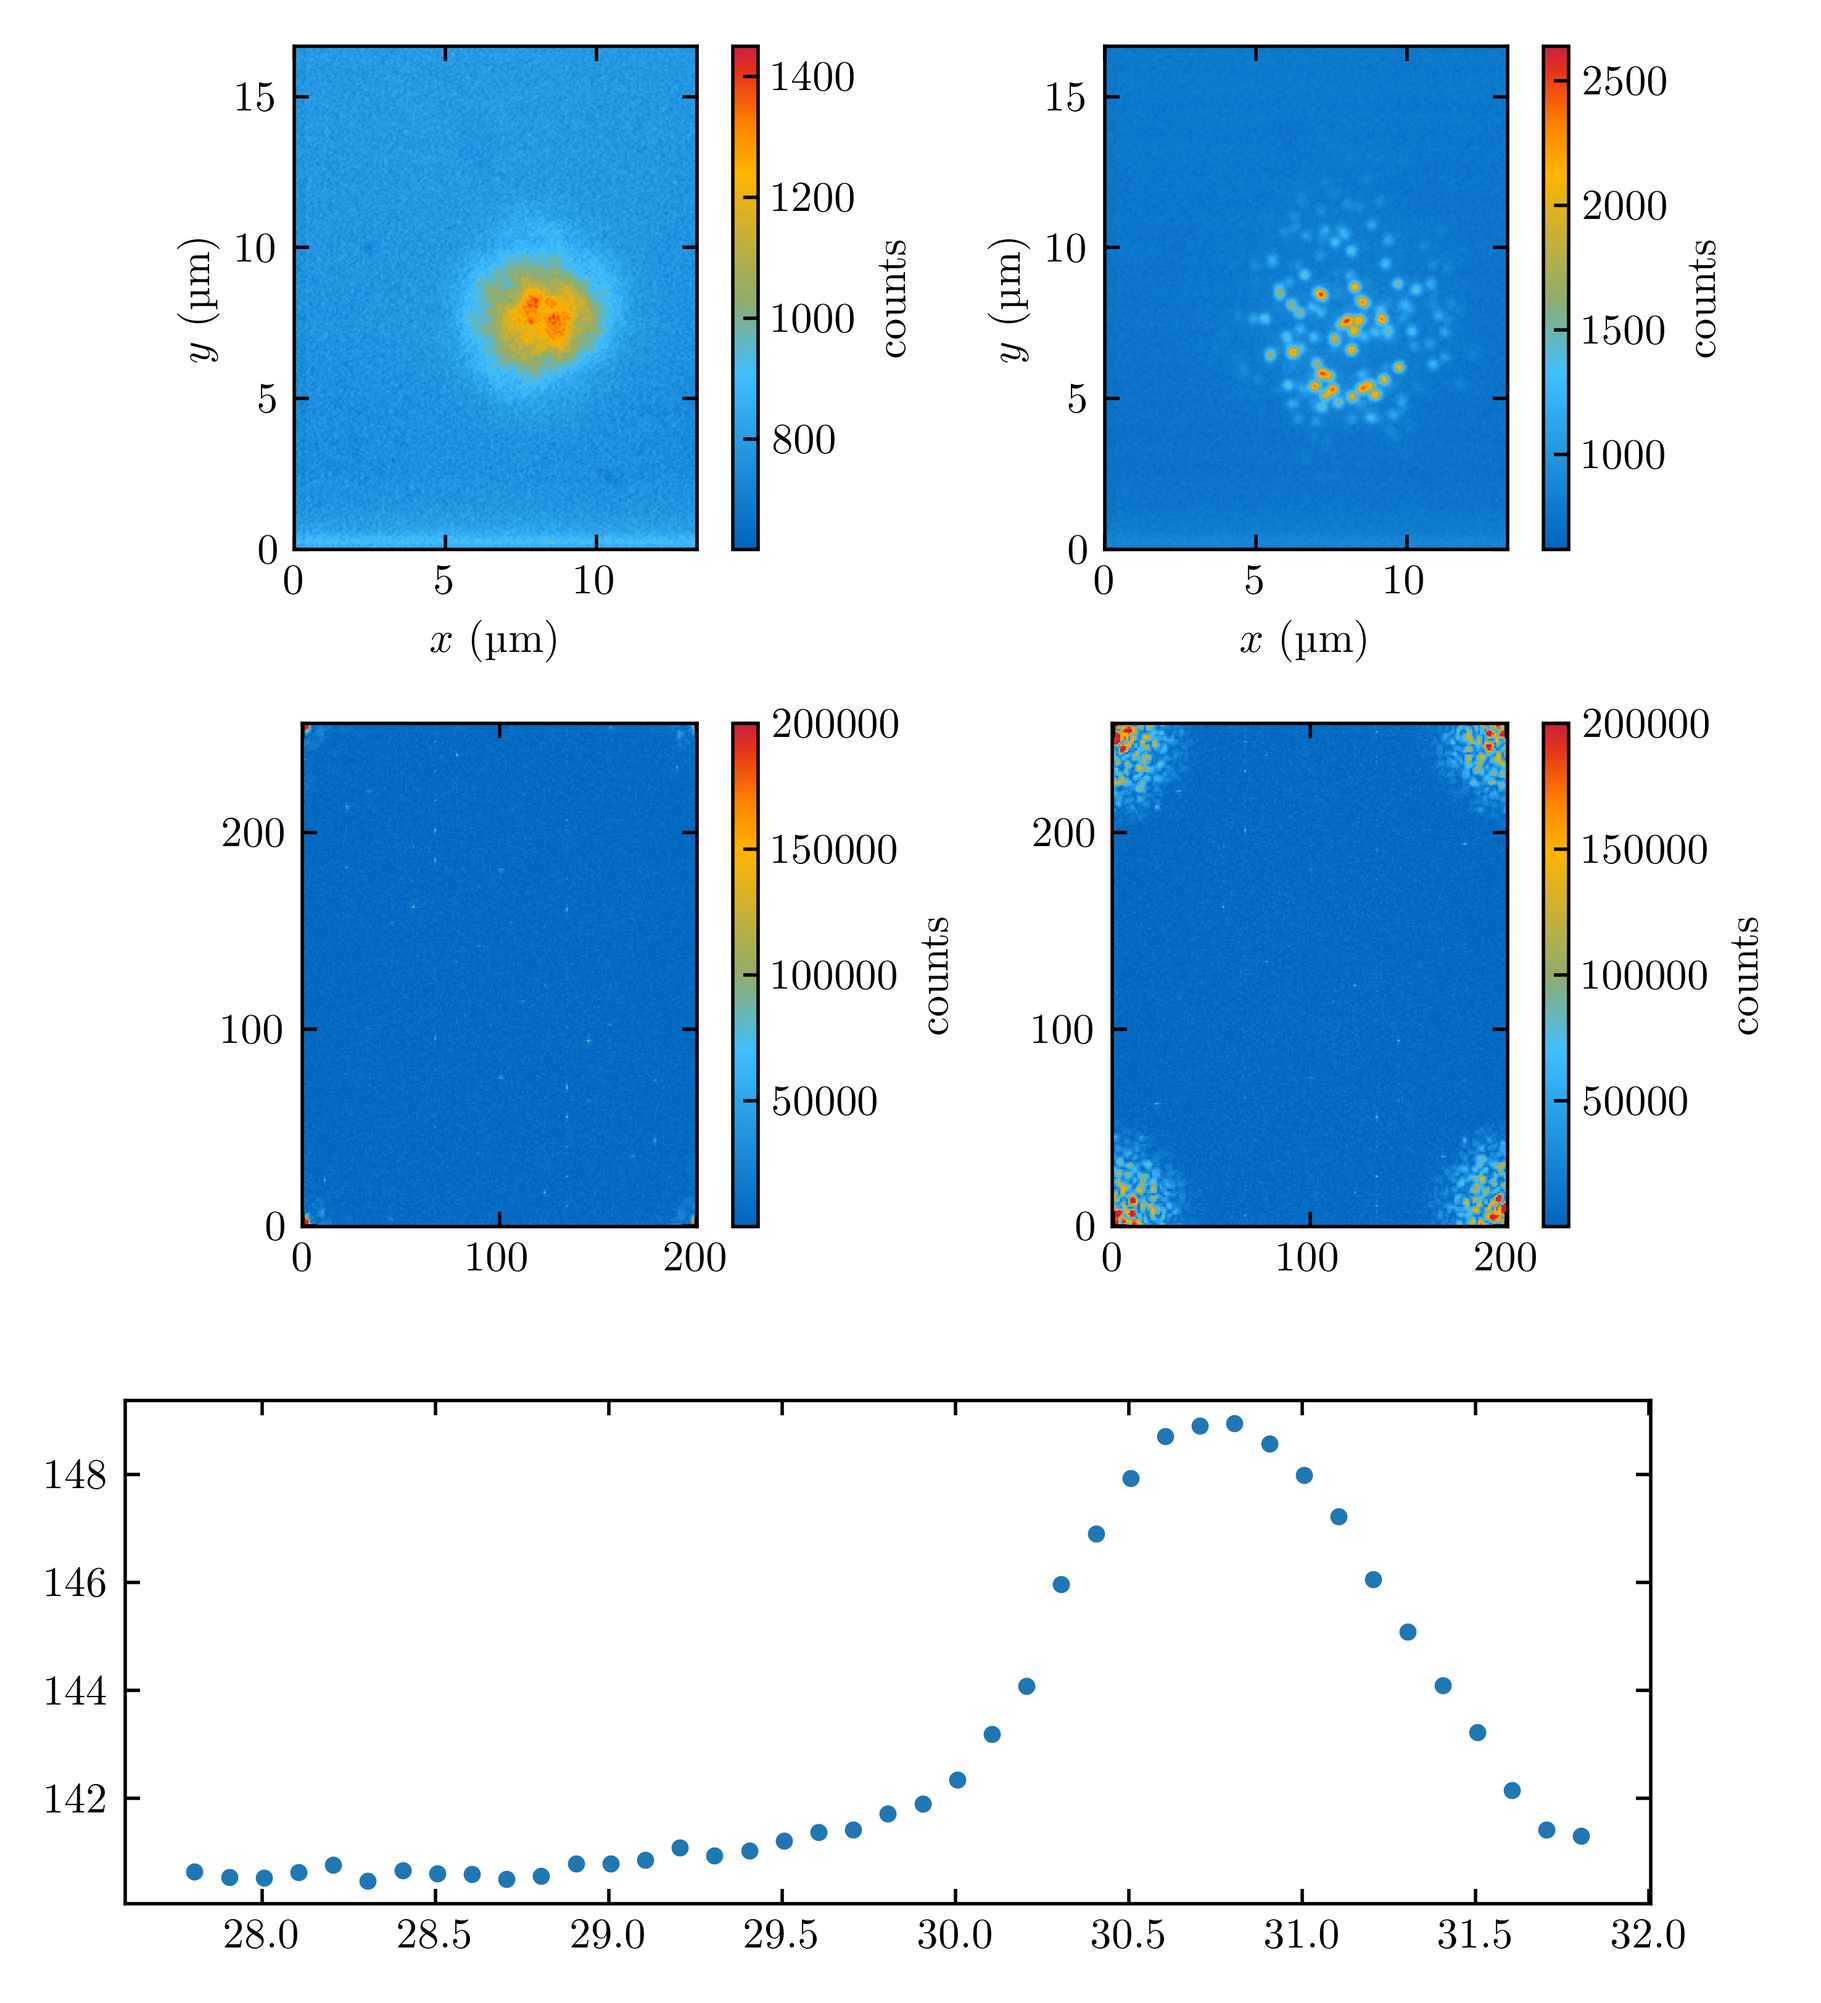
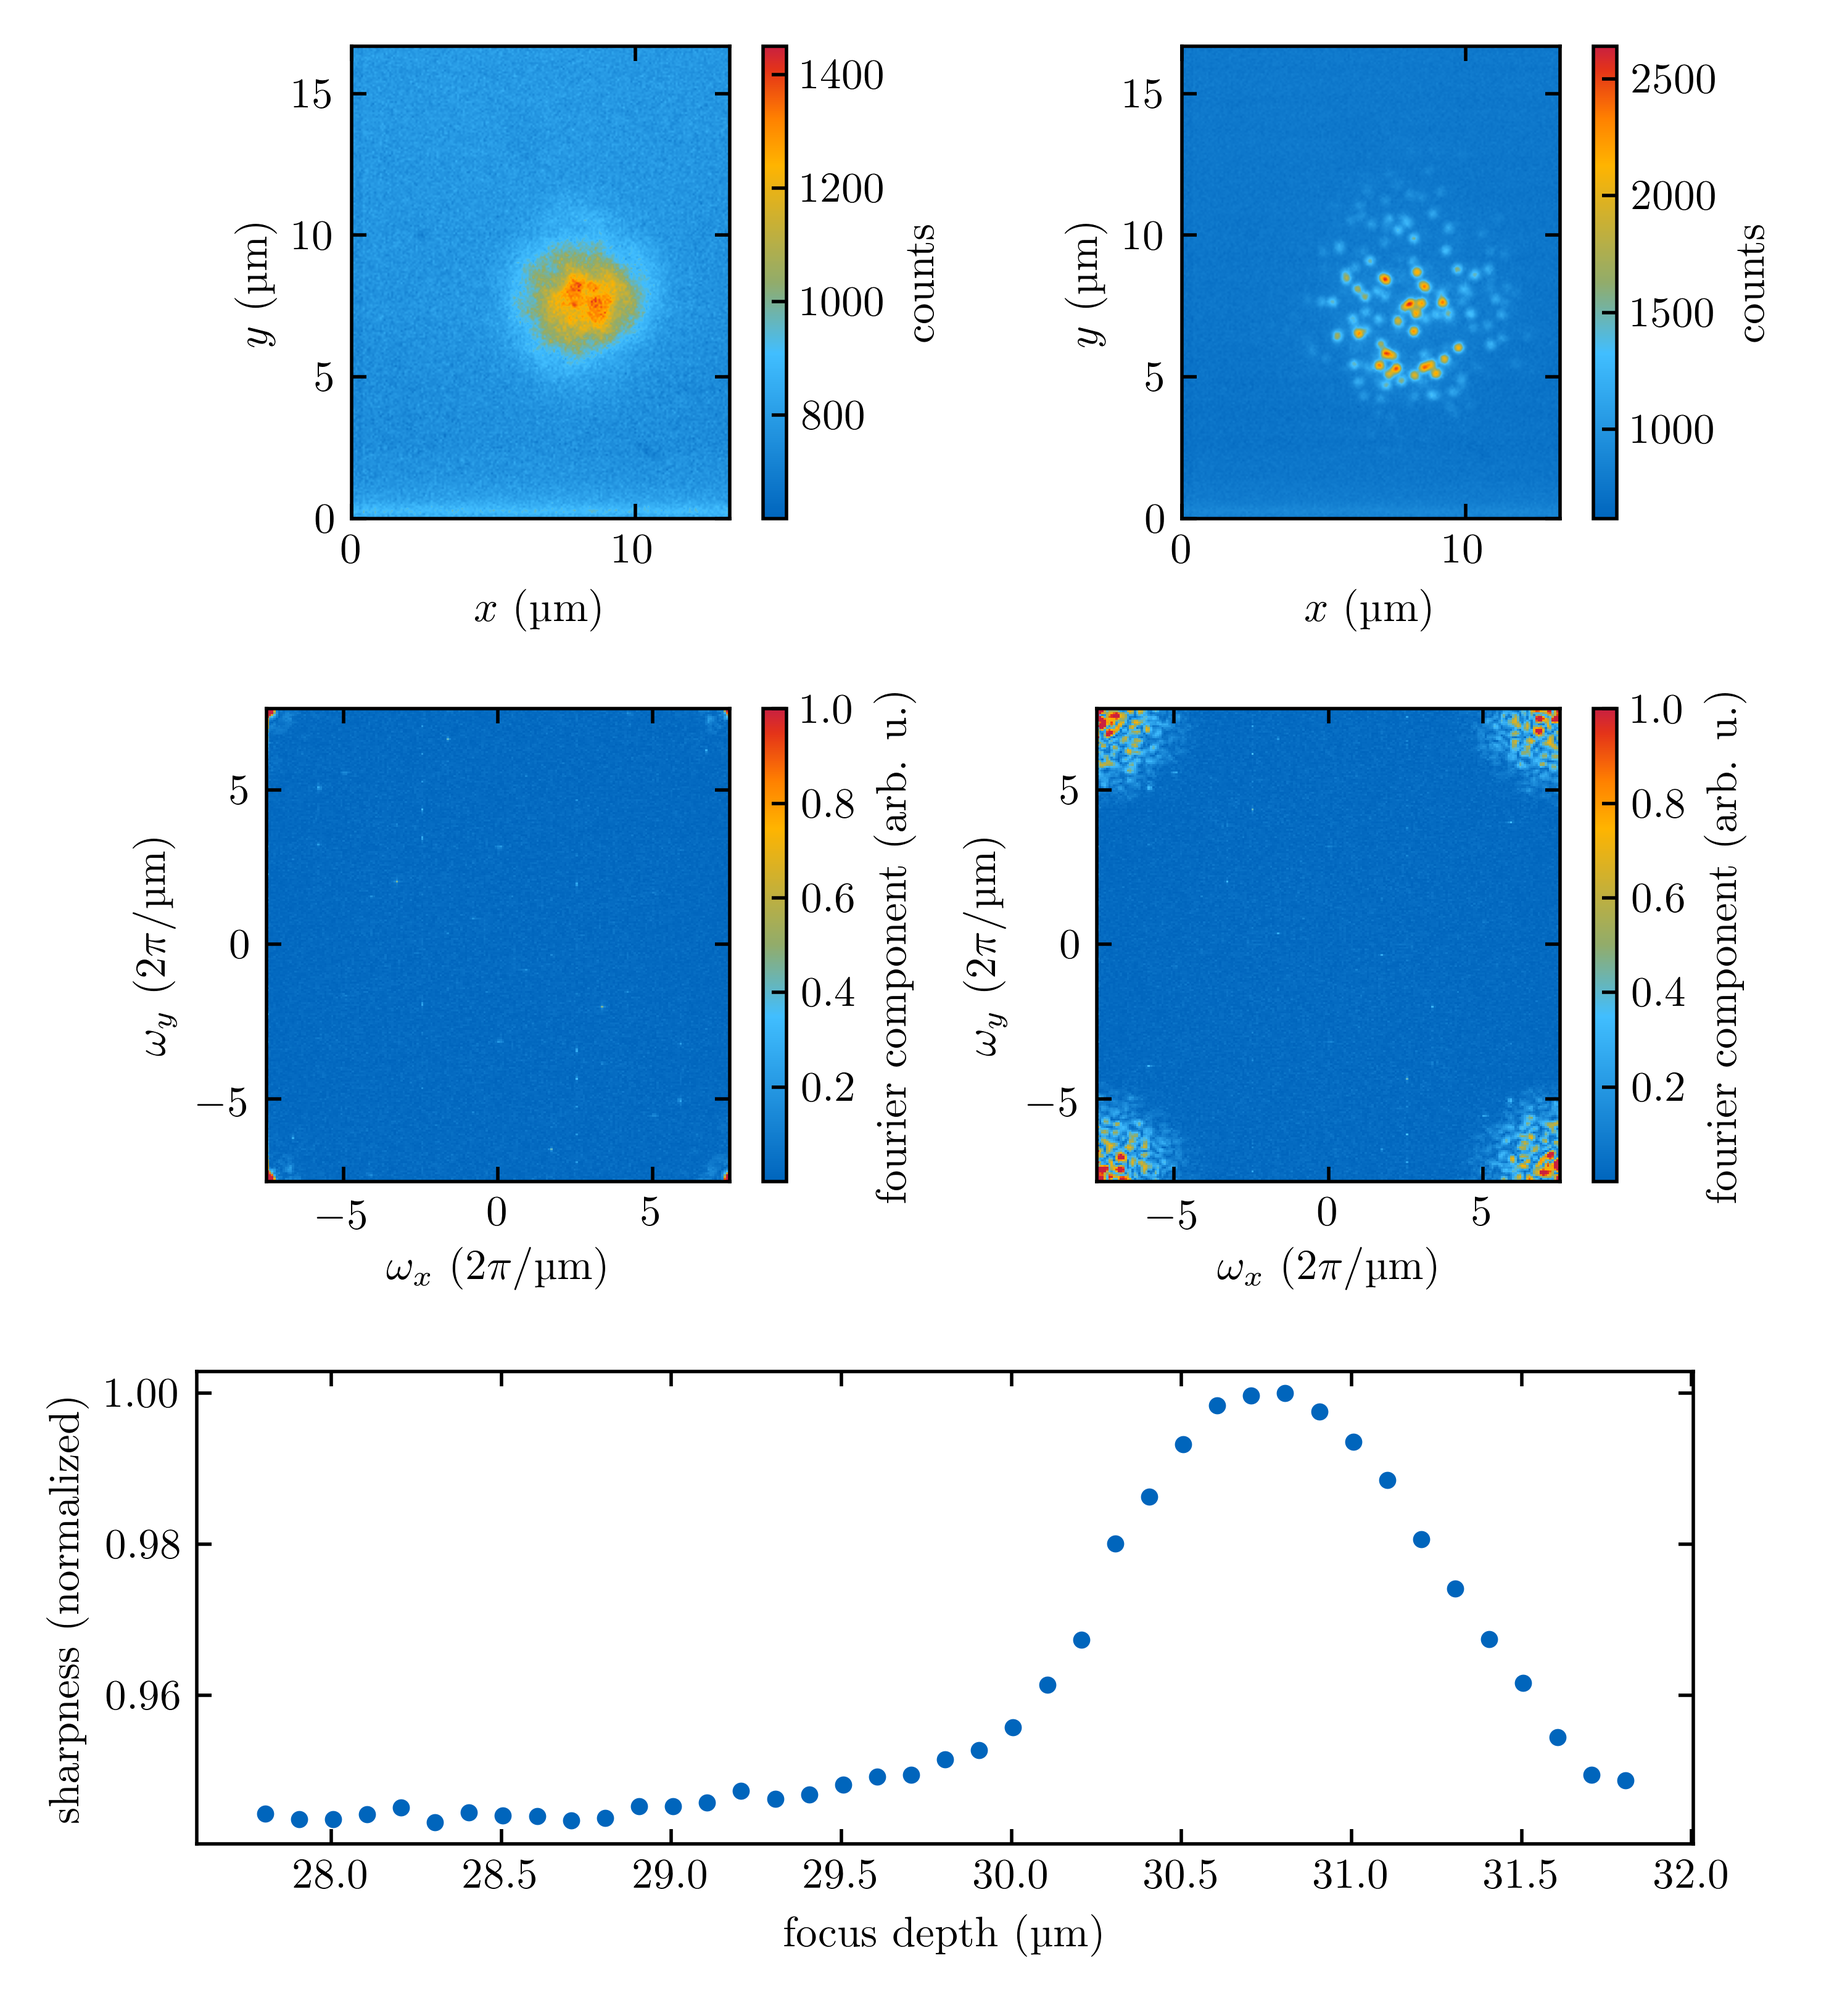
chapter 5 z_focus part2

diff --git a/images/chapter_5/z_focus.py b/images/chapter_5/z_focus.py
@@ -5,9 +5,9 @@ import matplotlib.pyplot as plt
 import numpy as np
 import scipy.ndimage
 
-from util.camera_plotting import cam_imshow
+from util.camera_plotting import cam_imshow, convert_pixels_to_um
 from util.inches import cm_to_inch
-from util.tum_jet import tum_jet
+from util.tum_jet import tum_jet, tum_color
 
 
 class ZFocusPlotter:
@@ -20,6 +20,43 @@ class ZFocusPlotter:
         self.__create_figures_and_axes()
 
     def plot(self):
+        self.__plot_original_images()
+
+        self.__plot_fft_images()
+
+        all_sharpnesses = self.__sharpness_of_all_images()
+        sharpness_axis = self.axes[4]
+        sharpness_axis.plot(self.zs, all_sharpnesses / all_sharpnesses.max(), '.', color=tum_color(0))
+        sharpness_axis.set_xlabel(r'focus depth ($\si{\micro \meter}$)')
+        sharpness_axis.set_ylabel('sharpness (normalized)')
+
+        plt.tight_layout()
+        plt.savefig('z_focus_collage.png', dpi=500)
+
+    def __plot_fft_images(self):
+        fft_extent = self.calculate_fft_extent()
+
+        fft_unsharp = np.abs(np.fft.fft2(self.unsharp_image))
+        image2 = self.axes[2].imshow(fft_unsharp / 2e5, cmap=tum_jet, origin='lower', vmax=1, extent=fft_extent)
+        self.fig.colorbar(image2, ax=self.axes[2], label='fourier component (arb. u.)')
+
+        fft_sharp = np.abs(np.fft.fft2(self.sharp_image))
+        image3 = self.axes[3].imshow(fft_sharp / 2e5, cmap=tum_jet, origin='lower', vmax=1, extent=fft_extent)
+        self.fig.colorbar(image3, ax=self.axes[3], label='fourier component (arb. u.)')
+
+        for axis in [self.axes[2], self.axes[3]]:
+            axis.set_xlabel(r'$\omega_x$ ($\si{2 \pi \per \micro \meter}$)')
+            axis.set_ylabel(r'$\omega_y$ ($\si{2 \pi \per \micro \meter}$)')
+
+    def calculate_fft_extent(self):
+        fft_freq_x = np.fft.fftfreq(self.unsharp_image.shape[1],
+                                    convert_pixels_to_um(200) / self.unsharp_image.shape[1])
+        fft_freq_y = np.fft.fftfreq(self.unsharp_image.shape[0],
+                                    convert_pixels_to_um(250) / self.unsharp_image.shape[0])
+        fft_extent = [fft_freq_x.min(), fft_freq_x.max(), fft_freq_y.min(), fft_freq_y.max()]
+        return fft_extent
+
+    def __plot_original_images(self):
         image0 = cam_imshow(self.unsharp_image, self.axes[0])
         self.fig.colorbar(image0, ax=self.axes[0], label='counts')
         image1 = cam_imshow(self.sharp_image, self.axes[1])
@@ -27,18 +64,6 @@ class ZFocusPlotter:
         for axis in [self.axes[0], self.axes[1]]:
             axis.set_xlabel(r'$x$ ($\si{\micro \meter}$)')
             axis.set_ylabel(r'$y$ ($\si{\micro \meter}$)')
-
-        fft_unsharp = np.abs(np.fft.fft2(self.unsharp_image))
-        image2 = self.axes[2].imshow(fft_unsharp, cmap=tum_jet, origin='lower', vmax=2e5)
-        self.fig.colorbar(image2, ax=self.axes[2], label='counts')
-        fft_sharp = np.abs(np.fft.fft2(self.sharp_image))
-        image3 = self.axes[3].imshow(fft_sharp, cmap=tum_jet, origin='lower', vmax=2e5)
-        self.fig.colorbar(image3, ax=self.axes[3], label='counts')
-
-        self.axes[4].plot(self.zs, self.__sharpness_of_all_images(), '.')
-
-        plt.tight_layout()
-        plt.savefig('z_focus_collage.png', dpi=500)
 
     def __create_figures_and_axes(self):
         self.fig = plt.figure(figsize=(cm_to_inch(15), cm_to_inch(16.5)))
